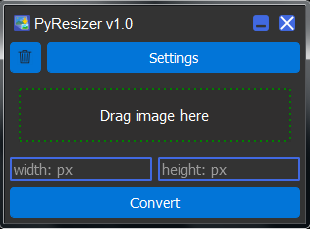
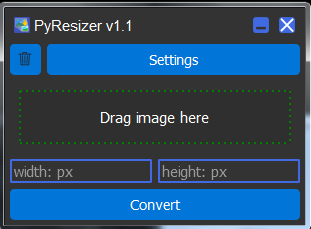
add showMwssage function

diff --git a/main.py b/main.py
@@ -42,9 +42,9 @@ global draged_img_paths
 draged_img_paths = set()
 
 
-class QCustomWidget(QWidget):
+class QDragDropWidget(QWidget):
     def __init__(self, parent=None):
-        super(QCustomWidget, self).__init__(parent)
+        super(QDragDropWidget, self).__init__(parent)
         self.setAcceptDrops(True)
 
         self.mineField = QtWidgets.QPushButton('Drag image here')
@@ -75,15 +75,24 @@ class QCustomWidget(QWidget):
         self.showSelectedImages()
 
     def showSelectedImages(self):
-        # Перерисовывает кол-во выбранных файлов, т.к. глобальная переменная меняется после конвертации
+        # Перерисовывает кол-во выбранных файлов,
+        # т.к. глобальная переменная меняется после конвертации
         self.mineField.setText("Selected:" + str(len(draged_img_paths)))
 
-
+    def showMessage(self, num_message):
+        message_alist = ["Error. You need input width or height",
+                         "You need selected one or more images",
+                         "Fail to convert",
+                         "Convert successfull"]
+        self.mineField.setText(message_alist[num_message])
+ 
 class Dialog(QDialog):
     def __init__(self, parent=None):
         super(Dialog, self).__init__(parent)
+        
         self.setWindowTitle("Settings")
         self.setWindowIcon(QIcon('images/logo.png'))
+        
         self.save_settings = QtWidgets.QPushButton('Save')
         self.save_settings.setObjectName("save_settings")
         self.extension_1 = QtWidgets.QRadioButton('png')
@@ -120,11 +129,11 @@ class Dialog(QDialog):
         return settings_dict
 
 
-class Example(QWidget):
+class QMainWindow(QWidget):
     def __init__(self):
         super().__init__()
 
-        self.title = 'PyResizer v1.0'
+        self.title = 'PyResizer v1.1'
         self.left = 300
         self.top = 300
         self.width = 300
@@ -166,11 +175,11 @@ class Example(QWidget):
         self.settings_button.setObjectName('settings_button')
 
         self.delete_button = QtWidgets.QToolButton()
-        self.delete_button.setIcon(QtGui.QIcon('images/trash2.png'));
+        self.delete_button.setIcon(QtGui.QIcon('images/trash.png'));
         self.delete_button.setIconSize(QtCore.QSize(16, 16));
         self.delete_button.setObjectName('delete_button')
 
-        self.drag_field = QCustomWidget()
+        self.drag_field = QDragDropWidget()
 
         h_header_box = QtWidgets.QHBoxLayout()
         h_header_box.setContentsMargins(0, 0, 0, 0)
@@ -184,7 +193,9 @@ class Example(QWidget):
         h_add_box.addWidget(self.settings_button)
 
         h_field_box = QtWidgets.QHBoxLayout()
+        #h_field_box.addStretch()
         h_field_box.addWidget(self.drag_field)
+        #h_field_box.addStretch()
         h_field_box.setContentsMargins(0, 0, 0, 0)
         h_field_box.setSpacing(0)
 
@@ -210,7 +221,7 @@ class Example(QWidget):
         self.settings_button.clicked.connect(self.function_show_settings)
         self.delete_button.clicked.connect(self.function_del_paths)
 
-        """headers buttons"""
+        """headers buttons connecting"""
         self.exit_button.clicked.connect(self.function_exit)
         self.minimize_button.clicked.connect(self.function_minimize)
 
@@ -229,9 +240,6 @@ class Example(QWidget):
     def function_del_paths(self):
         draged_img_paths.clear()
         self.drag_field.showSelectedImages()
-        obj = QCustomWidget()
-        # print(obj.mineField.text())
-        obj.mineField.setText(str("some"))
 
     def function_show_settings(self):
         d_obj = Dialog(self)
@@ -254,7 +262,8 @@ class Example(QWidget):
         width = 0
         height = 0
         make_convert = 0
-        # Пытаемся выполнить конвертацию только в случае, если есть выбранные файлы
+        """Пытаемся выполнить конвертацию только в случае,
+        если есть выбранные файлы."""
         if len(draged_img_paths):
             try:
                 width = int(self.width_lineEdit.text().strip())
@@ -265,10 +274,10 @@ class Example(QWidget):
             except:
                 pass
             # В linux ссылка на файл имеет вид file:///home/alexey/..., делает и нее абсолютную
-            draged_img_paths_clean = [string.replace(r'file://', '') for string in draged_img_paths]
+            draged_img_paths_clean = [string.replace(r'file:///', '') for string in draged_img_paths]
             # Обработка случая, когда не задали высоту и ширину
             if width == 0 and height == 0:
-                print("Error. You need input width or height")
+                self.drag_field.showMessage(0)
             # Задано одно или оба
             else:
                 for i in draged_img_paths_clean:
@@ -291,14 +300,15 @@ class Example(QWidget):
                         resized_image = image.resize(size, Image.ANTIALIAS)
                         resized_image.save(str(filename + self.process_file_extension(file_extension)))
                     except:
-                        print('Не удалось сконвертировать файл:', i)
+                        self.drag_field.showMessage(2)
                     else:
                         make_convert += 1
         else:
-            print('You need selected one or more images')
-        # Выполнили конвертацию, почистить список выбранных файлов
+            self.drag_field.showMessage(1)
+        # Выполнили конвертацию, вывели сообщение. 
         if make_convert:
-            self.function_del_paths()
+            #self.function_del_paths()
+            self.drag_field.showMessage(3)
 
     # Переопределяем методы, тем самым давая возможность перемещать окно
     def mousePressEvent(self, event):
@@ -314,5 +324,5 @@ class Example(QWidget):
 
 if __name__ == '__main__':
     app = QApplication(sys.argv)
-    ex = Example()
+    ex = QMainWindow()
     sys.exit(app.exec_())
